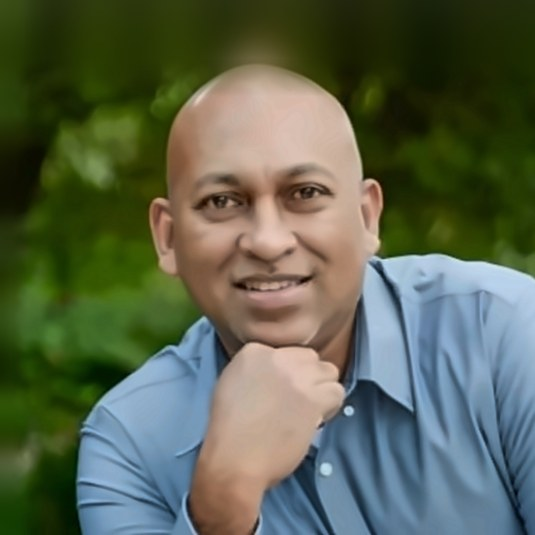
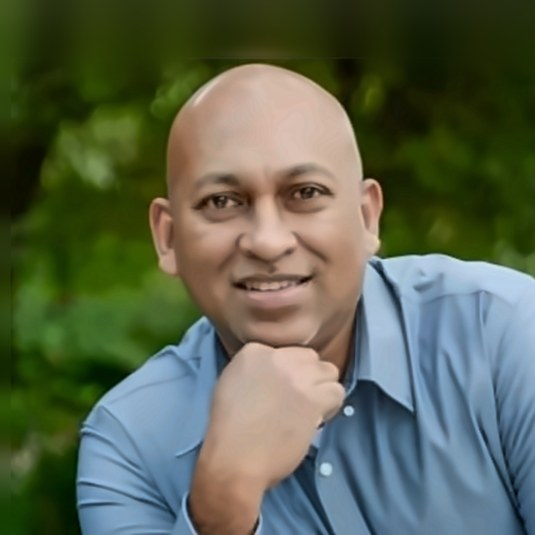
About: keep top of Mark Peters' head sharp in photo
Claude-Session: https://claude.ai/code/session_01YXHXMRuwfuFx1RTxhNLRGp

Changed region(s): [[0.3589, 0.0598, 0.5981, 0.1794]]

diff --git a/about.html b/about.html
@@ -141,7 +141,7 @@ a{color:#2F4858}a:hover{color:#1E3240}
     <div style="display: grid; grid-template-columns: repeat(auto-fit, minmax(260px, 1fr)); gap: 24px">
             <div style="display: flex; flex-direction: column; gap: 10px"><img src="assets/pastor-tricia.jpg" alt="Pastor Tricia Persram" width="535" height="535" loading="lazy" style="width: 100%; height: auto; aspect-ratio: 1 / 1; object-fit: cover; border-radius: 14px; display: block"><span style="font-family: 'Libre Baskerville', serif; font-size: 20px; font-weight: 700">Tricia Persram</span><span style="font-size: 16px; color: #4F6676">Family Care Pastor</span><span style="font-size: 15px; line-height: 1.5; color: #3B5566">Oversees Children, Youth &amp; Next Generation and Care &amp; Compassion</span></div>
       <div style="display: flex; flex-direction: column; gap: 10px"><img src="assets/pastor-dan.jpg" alt="Pastor Dan Nuñez" width="535" height="535" loading="lazy" style="width: 100%; height: auto; aspect-ratio: 1 / 1; object-fit: cover; border-radius: 14px; display: block"><span style="font-family: 'Libre Baskerville', serif; font-size: 20px; font-weight: 700">Dan Nuñez</span><span style="font-size: 16px; color: #4F6676">Connection Pastor</span><span style="font-size: 15px; line-height: 1.5; color: #3B5566">Oversees Fellowship, Evangelism &amp; Missions and Community Transformation</span></div>
-      <div style="display: flex; flex-direction: column; gap: 10px"><img src="assets/pastor-mark.jpg?v=4" alt="Mark Peters, Church Administrator" width="535" height="535" loading="lazy" style="width: 100%; height: auto; aspect-ratio: 1 / 1; object-fit: cover; border-radius: 14px; display: block"><span style="font-family: 'Libre Baskerville', serif; font-size: 20px; font-weight: 700">Mark Peters</span><span style="font-size: 16px; color: #4F6676">Church Administrator</span><span style="font-size: 15px; line-height: 1.5; color: #3B5566">Oversees Discipleship, Worship, Ministry Support, and Marriage &amp; Family and Senior Parents ministries</span></div>
+      <div style="display: flex; flex-direction: column; gap: 10px"><img src="assets/pastor-mark.jpg?v=5" alt="Mark Peters, Church Administrator" width="535" height="535" loading="lazy" style="width: 100%; height: auto; aspect-ratio: 1 / 1; object-fit: cover; border-radius: 14px; display: block"><span style="font-family: 'Libre Baskerville', serif; font-size: 20px; font-weight: 700">Mark Peters</span><span style="font-size: 16px; color: #4F6676">Church Administrator</span><span style="font-size: 15px; line-height: 1.5; color: #3B5566">Oversees Discipleship, Worship, Ministry Support, and Marriage &amp; Family and Senior Parents ministries</span></div>
     </div>
   </section>
 
